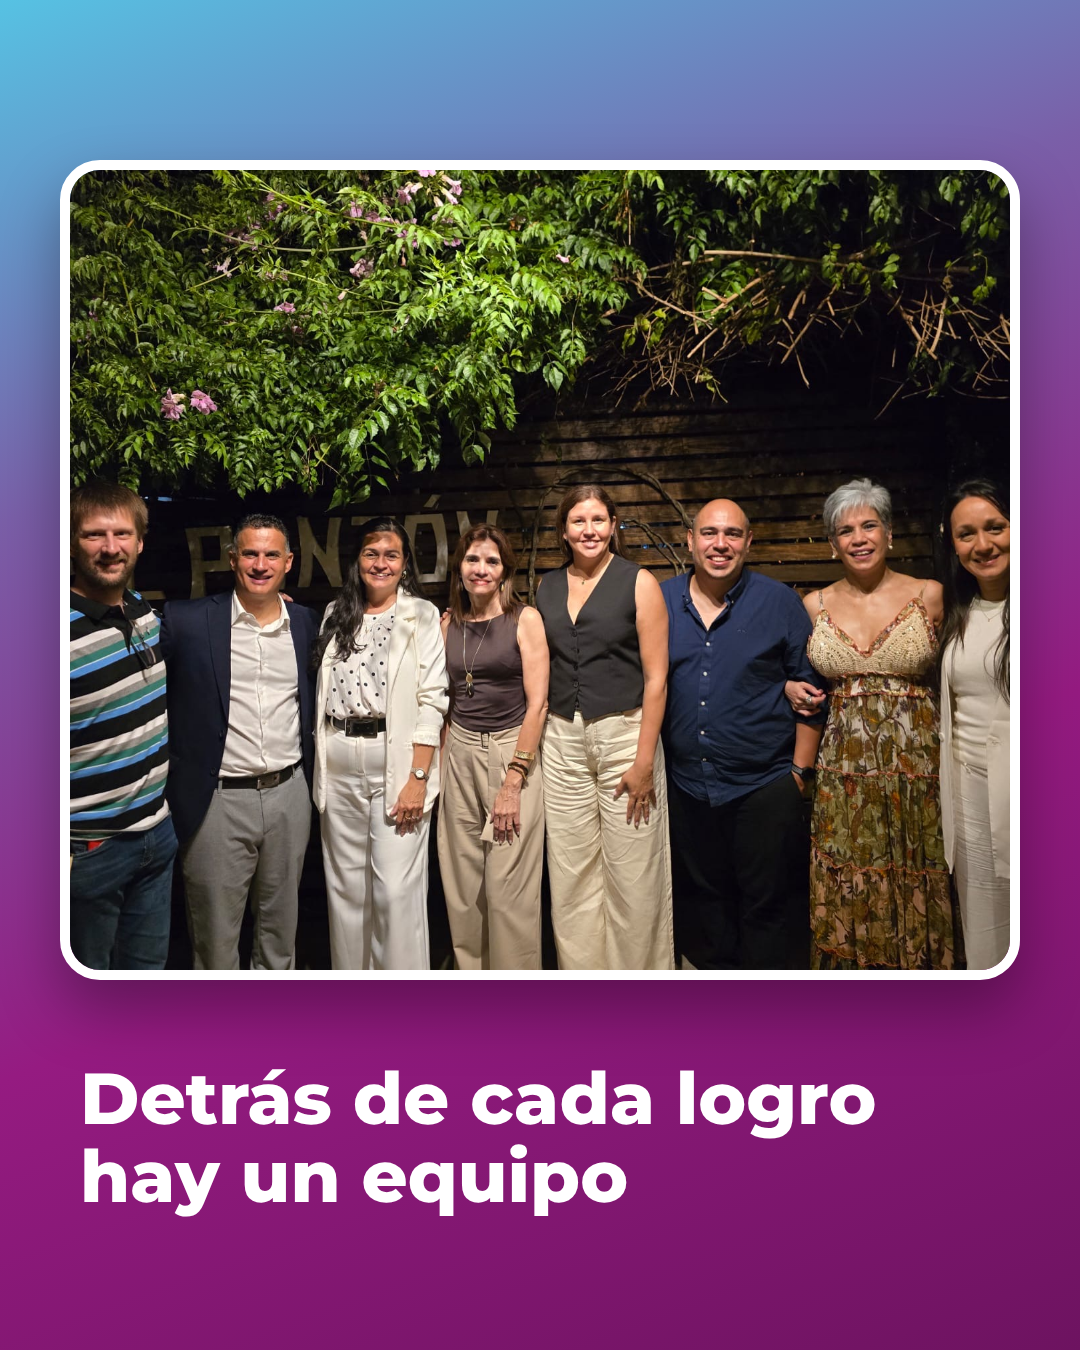
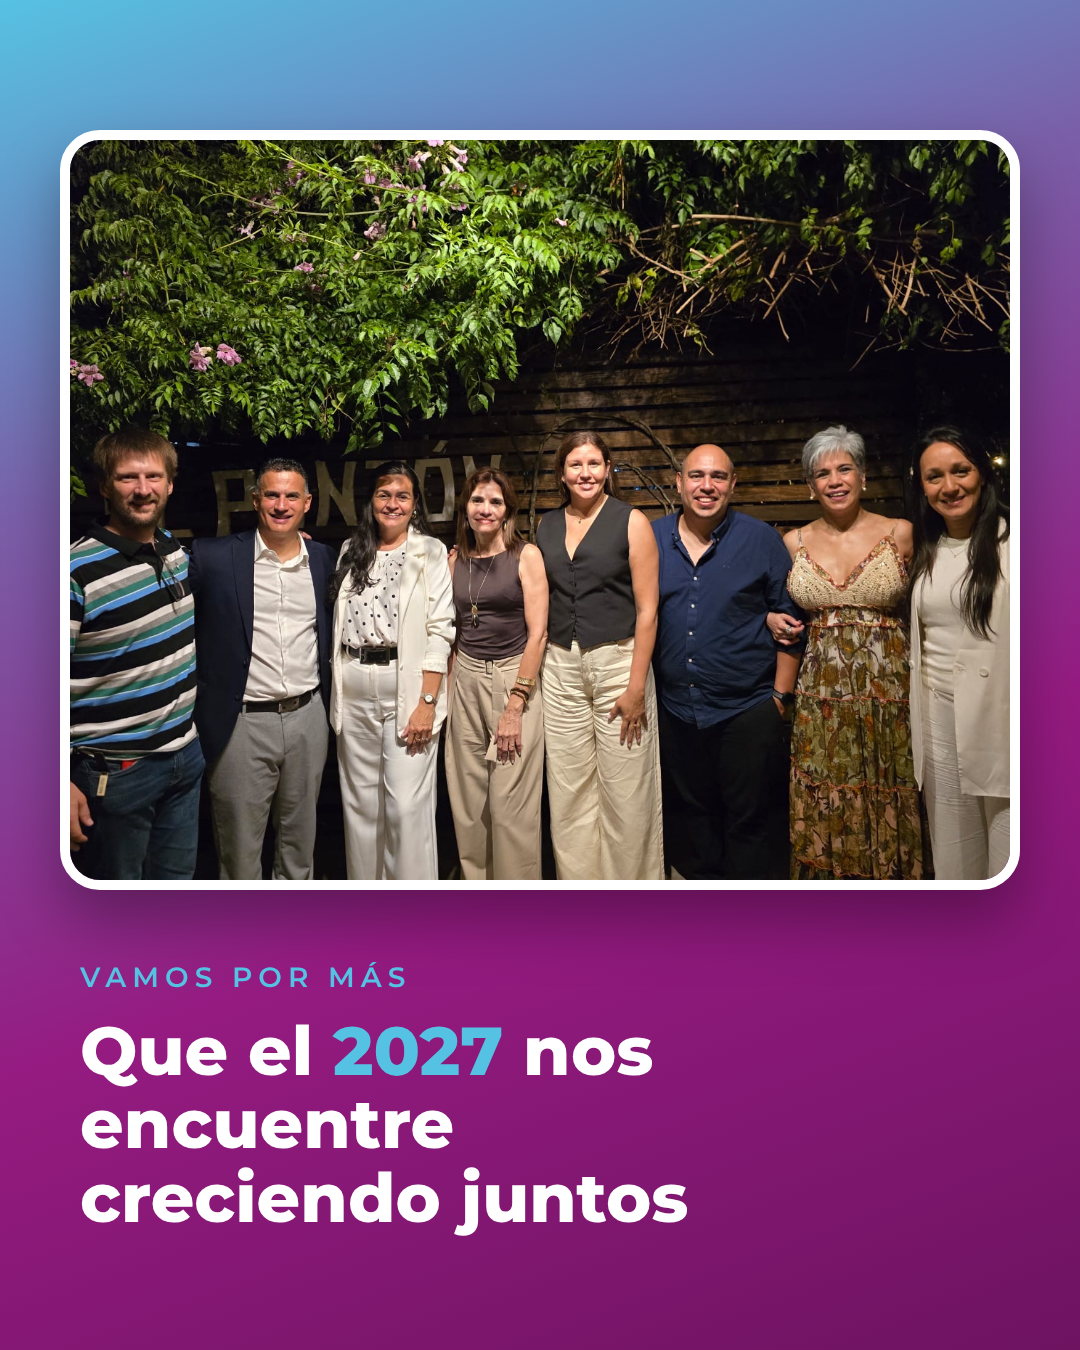
Mirian Olivera: placa 4 con 'Que el 2027 nos encuentre creciendo juntos'
Claude-Session: https://claude.ai/code/session_01LwLBAGVYBzWARZL7XTJLMW

diff --git a/mirian/carrusel_san_cristobal.py b/mirian/carrusel_san_cristobal.py
@@ -88,10 +88,11 @@ SLIDES.append(f"""
 # 5 · FOTO GRUPAL
 SLIDES.append(f"""
 <div class="full" style="background:linear-gradient(160deg,#56c2e3 0%,#7a5fa8 30%,#951b81 62%,#6d1360 100%)"></div>
-<div style="position:absolute; left:60px; right:60px; top:160px; height:820px; border-radius:40px; overflow:hidden; box-shadow:0 30px 60px rgba(0,0,0,.35); border:10px solid #fff">
+<div style="position:absolute; left:60px; right:60px; top:130px; height:760px; border-radius:40px; overflow:hidden; box-shadow:0 30px 60px rgba(0,0,0,.35); border:10px solid #fff">
   <img class="cover" src="{A}/fotos/grupo_horizontal.jpg" style="object-position:50% 62%"></div>
-<div style="position:absolute; left:80px; right:80px; top:1060px; color:#fff">
-  <h2 class="mont" style="font-weight:800; font-size:72px; line-height:1.08">Detrás de cada logro<br>hay un equipo</h2>
+<div style="position:absolute; left:80px; right:80px; top:960px; color:#fff">
+  <p class="mont" style="font-weight:600; font-size:28px; letter-spacing:6px; color:var(--celeste)">VAMOS POR MÁS</p>
+  <h2 class="mont" style="font-weight:800; font-size:68px; line-height:1.08; margin-top:20px">Que el <span style="color:var(--celeste)">2027</span> nos encuentre<br>creciendo juntos</h2>
 </div>
 """)
 
